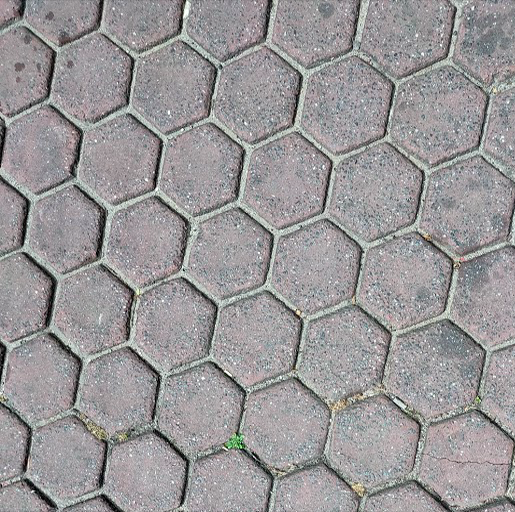
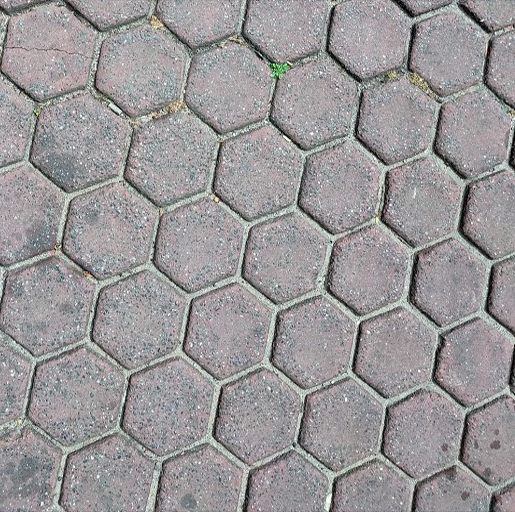
add: pavereel

diff --git a/interface.js b/interface.js
@@ -951,6 +951,112 @@ var centresTexturePave = [
   [507, 95],
 ];
 
+var centresTexturePaveJoint = [
+  [21, 148],
+  [24, 191],
+  [24, 433],
+  [25, 57],
+  [25, 231],
+  [25, 287],
+  [25, 335],
+  [25, 377],
+  [25, 506],
+  [26, 471],
+  [28, 102],
+  [29, 16],
+  [84, 5],
+  [86, 221],
+  [87, 273],
+  [87, 403],
+  [87, 495],
+  [88, 354],
+  [89, 118],
+  [89, 170],
+  [90, 40],
+  [90, 451],
+  [91, 82],
+  [92, 311],
+  [156, 23],
+  [158, 70],
+  [158, 117],
+  [158, 210],
+  [160, 157],
+  [160, 395],
+  [160, 443],
+  [161, 348],
+  [161, 487],
+  [162, 260],
+  [165, 300],
+  [222, 189],
+  [222, 320],
+  [223, 6],
+  [225, 135],
+  [225, 242],
+  [225, 467],
+  [225, 501],
+  [226, 89],
+  [227, 44],
+  [227, 282],
+  [227, 374],
+  [228, 415],
+  [264, 463],
+  [266, 7],
+  [266, 230],
+  [266, 422],
+  [267, 137],
+  [267, 188],
+  [267, 270],
+  [268, 44],
+  [268, 324],
+  [268, 371],
+  [268, 501],
+  [270, 88],
+  [314, 243],
+  [315, 197],
+  [316, 13],
+  [316, 509],
+  [317, 284],
+  [318, 152],
+  [318, 330],
+  [318, 380],
+  [318, 429],
+  [318, 474],
+  [319, 58],
+  [320, 102],
+  [387, 85],
+  [387, 186],
+  [389, 249],
+  [389, 306],
+  [390, 30],
+  [390, 354],
+  [390, 400],
+  [390, 446],
+  [390, 492],
+  [392, 141],
+  [452, 7],
+  [454, 94],
+  [456, 367],
+  [457, 415],
+  [458, 202],
+  [459, 159],
+  [459, 463],
+  [460, 42],
+  [460, 259],
+  [460, 321],
+  [461, 500],
+  [501, 230],
+  [502, 16],
+  [503, 105],
+  [503, 191],
+  [503, 423],
+  [503, 472],
+  [504, 286],
+  [504, 331],
+  [505, 377],
+  [506, 58],
+  [506, 145],
+];
+
 init_textures();
 init();
 animate();
@@ -1677,8 +1783,8 @@ function dupliquer(centres, Xrepeat, Yrepeat, w, h) {
   T = [];
 
   for (let k = 0; k < centres.length; k++) {
-    var x = centresTexturePave[k][0];
-    var y = centresTexturePave[k][1];
+    var x = centresTexturePaveJoint[k][0];
+    var y = centresTexturePaveJoint[k][1];
 
     for (let i = 0; i < Xrepeat; i++) {
       for (let j = 0; j < Yrepeat; j++) {
@@ -1764,7 +1870,7 @@ function init_textures() {
   ];
   var chemin = computeCheminInterpol(Points);
 
-  var centres = dupliquer(centresTexturePave, 10, 10, w1, h1);
+  var centres = dupliquer(centresTexturePaveJoint, 10, 10, w1, h1);
   console.log("modifierMasque2");
   canvas2 = modifierMasque2(canvas2, chemin, canvas, centres);
 
@@ -2030,7 +2136,7 @@ function animate() {
 
     var chemin = computeCheminInterpol(Points);
 
-    var centres = dupliquer(centresTexturePave, 10, 10, w1, h1);
+    var centres = dupliquer(centresTexturePaveJoint, 10, 10, w1, h1);
     console.log("modifierMasque2");
     canvas2 = modifierMasque2(canvas2, chemin, canvas, centres);
     //canvas2 = afficherFleur(canvas2);

diff --git a/index.html b/index.html
@@ -18,8 +18,8 @@
 		
 
 
-		<img src="graphics/pave.png" id="texture" hidden="true">
-		<img  src="graphics/masquepave.png" id="masque" hidden=true>
+		<img src="graphics/PavéStock512joint.png" id="texture" hidden="true">
+		<img  src="graphics/masquePavéStock512joint.png" id="masque" hidden=true>
 		
 		<script src="three.min.js"></script>
 		<script src="OrbitControls.js"></script>
